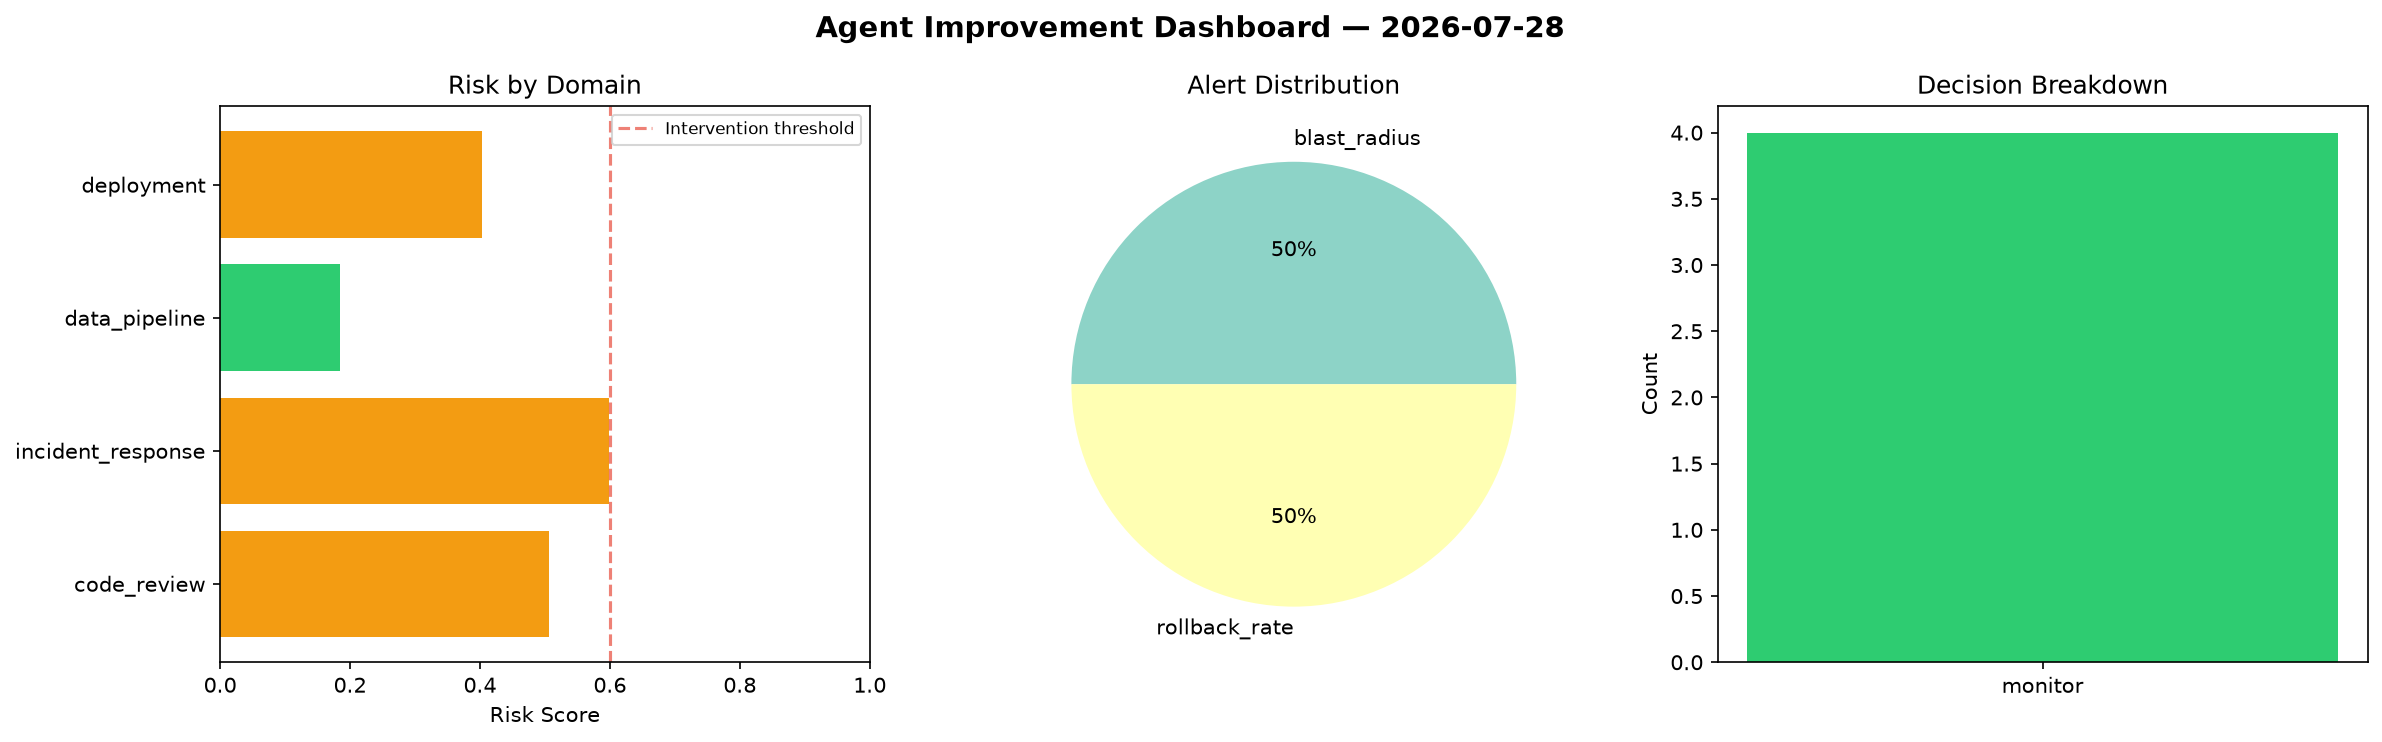
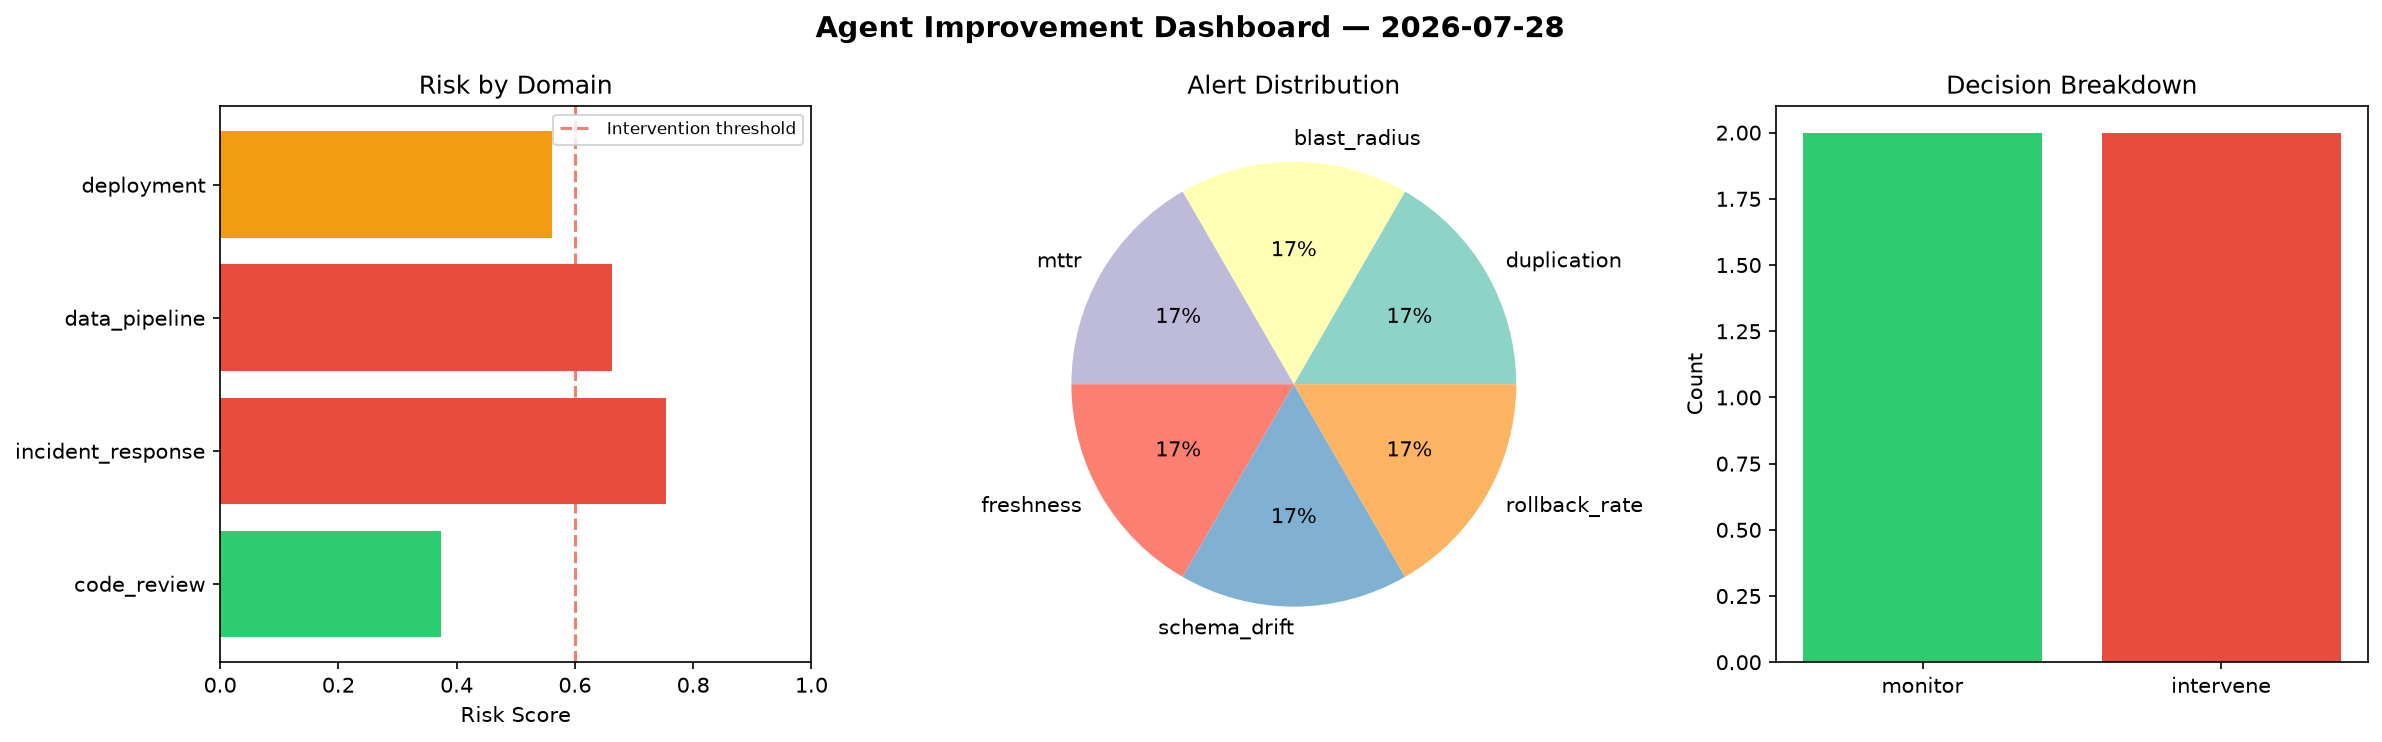
agent-improvement: daily cycle 2026-07-28T10:44

diff --git a/logs/2026-07-28.md b/logs/2026-07-28.md
@@ -1,6 +1,6 @@
 # Agent Improvement Report — 2026-07-28
 
-**Cycle ID:** `ef9fb22e` | **Avg Risk:** 0.4228 | **Interventions:** 0/4
+**Cycle ID:** `bbd1ebe0` | **Avg Risk:** 0.5882 | **Interventions:** 2/4
 
 ![Dashboard](2026-07-28_dashboard.png)
 
@@ -10,18 +10,18 @@
 
 | Domain | Risk Score | Decision | Alerts |
 |--------|-----------|----------|--------|
-| code_review | 0.5055 | monitor | none |
-| incident_response | 0.5982 | monitor | blast_radius |
-| data_pipeline | 0.184 | monitor | none |
-| deployment | 0.4034 | monitor | rollback_rate |
+| code_review | 0.374 | monitor | duplication |
+| incident_response | 0.7542 | intervene | blast_radius, mttr |
+| data_pipeline | 0.6632 | intervene | freshness, schema_drift |
+| deployment | 0.5612 | monitor | rollback_rate |
 
 ## Delta vs Yesterday
 
 | Domain | Today | Yesterday | Change |
 |--------|-------|-----------|--------|
-| code_review | 0.5055 | 0.5751 | 📉 -12.1% |
-| incident_response | 0.5982 | 0.4472 | 📈 33.8% |
-| data_pipeline | 0.184 | 0.7277 | 📉 -74.7% |
-| deployment | 0.4034 | 0.4152 | 📉 -2.8% |
+| code_review | 0.374 | 0.5751 | 📉 -35.0% |
+| incident_response | 0.7542 | 0.4472 | 📈 68.6% |
+| data_pipeline | 0.6632 | 0.7277 | 📉 -8.9% |
+| deployment | 0.5612 | 0.4152 | 📈 35.2% |
 
-**Refinement:** `{'adjustment': 'maintain', 'trend': 'improving', 'window': 4}`
+**Refinement:** `{'adjustment': 'tighten_thresholds', 'trend': 'degrading', 'window': 4}`
